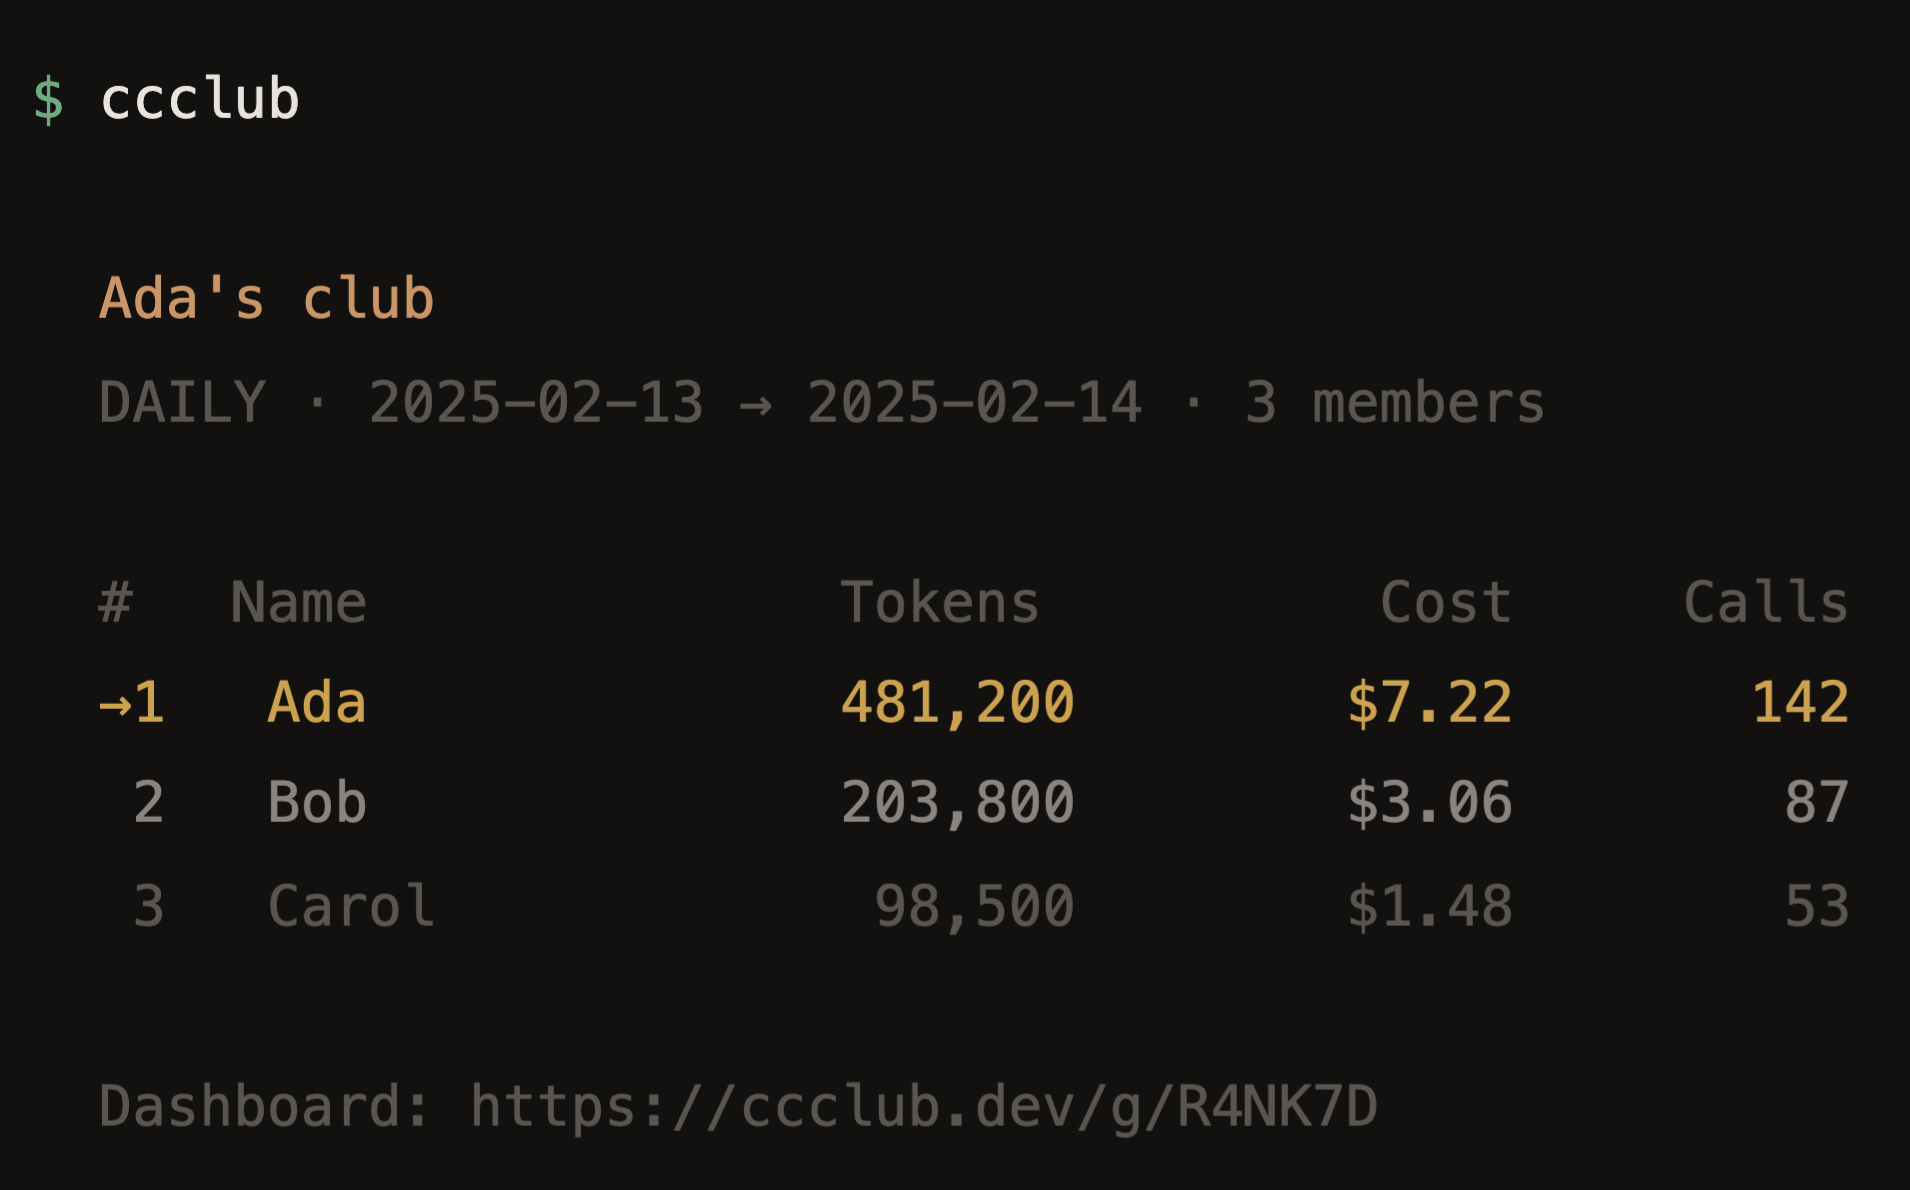
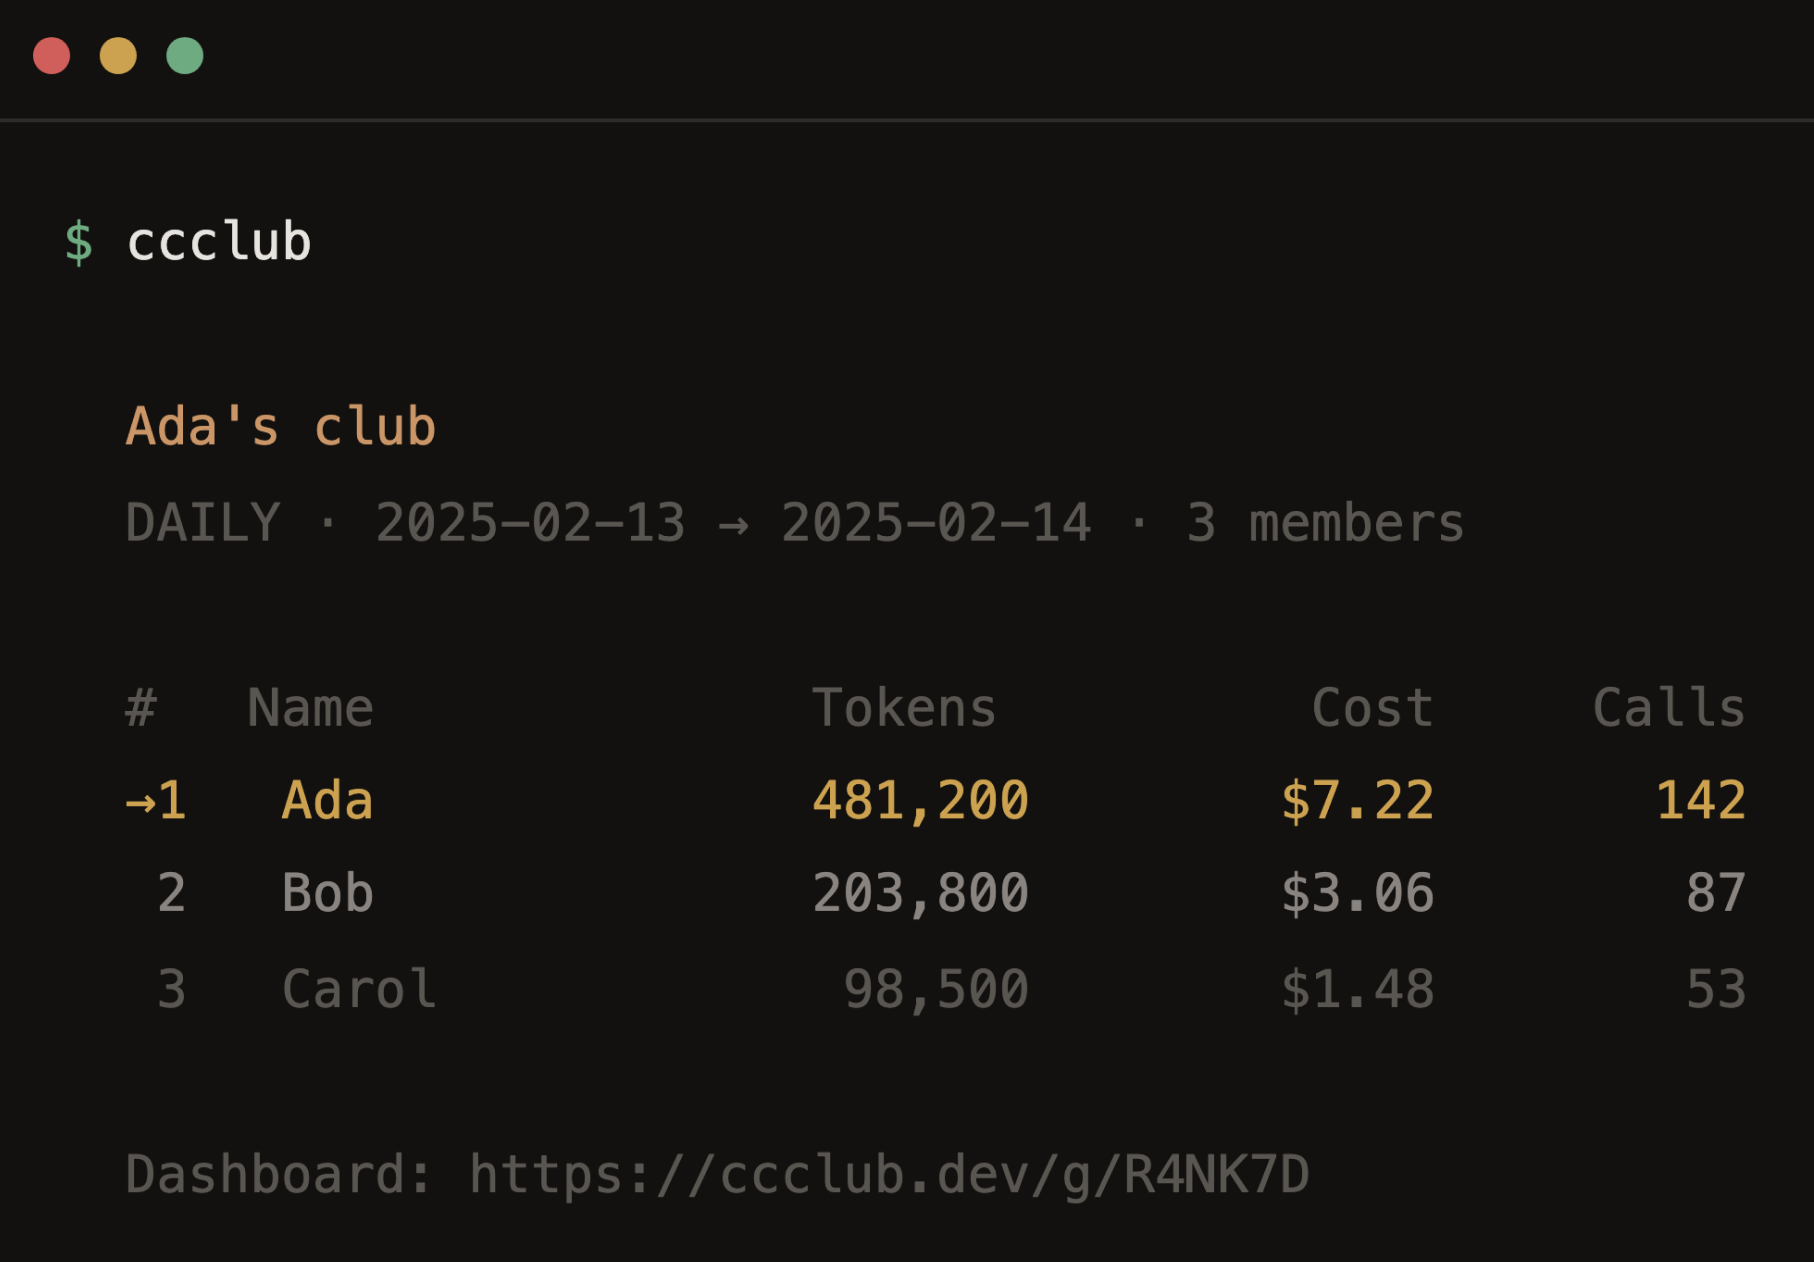
Update demo.png, improve terminal card with shadow instead of border

diff --git a/packages/worker/src/landing.ts b/packages/worker/src/landing.ts
@@ -70,13 +70,14 @@ function landingHTML() {
     /* Terminal */
     .terminal-wrap { padding: 24px 0 48px; }
     .terminal {
-      background: #13110f; border: 1px solid #2e2c2a; border-radius: 10px;
+      background: #13110f; border: none; border-radius: 10px;
       overflow: hidden;
+      box-shadow: 0 4px 24px rgba(0,0,0,0.5), 0 0 0 1px rgba(255,255,255,0.06);
     }
     .terminal-bar {
       padding: 12px 16px;
       display: flex; align-items: center; gap: 8px;
-      border-bottom: 1px solid #2e2c2a;
+      border-bottom: 1px solid rgba(255,255,255,0.06);
     }
     .terminal-dot { width: 10px; height: 10px; border-radius: 50%; }
     .terminal-dot.r { background: #e05555; }
